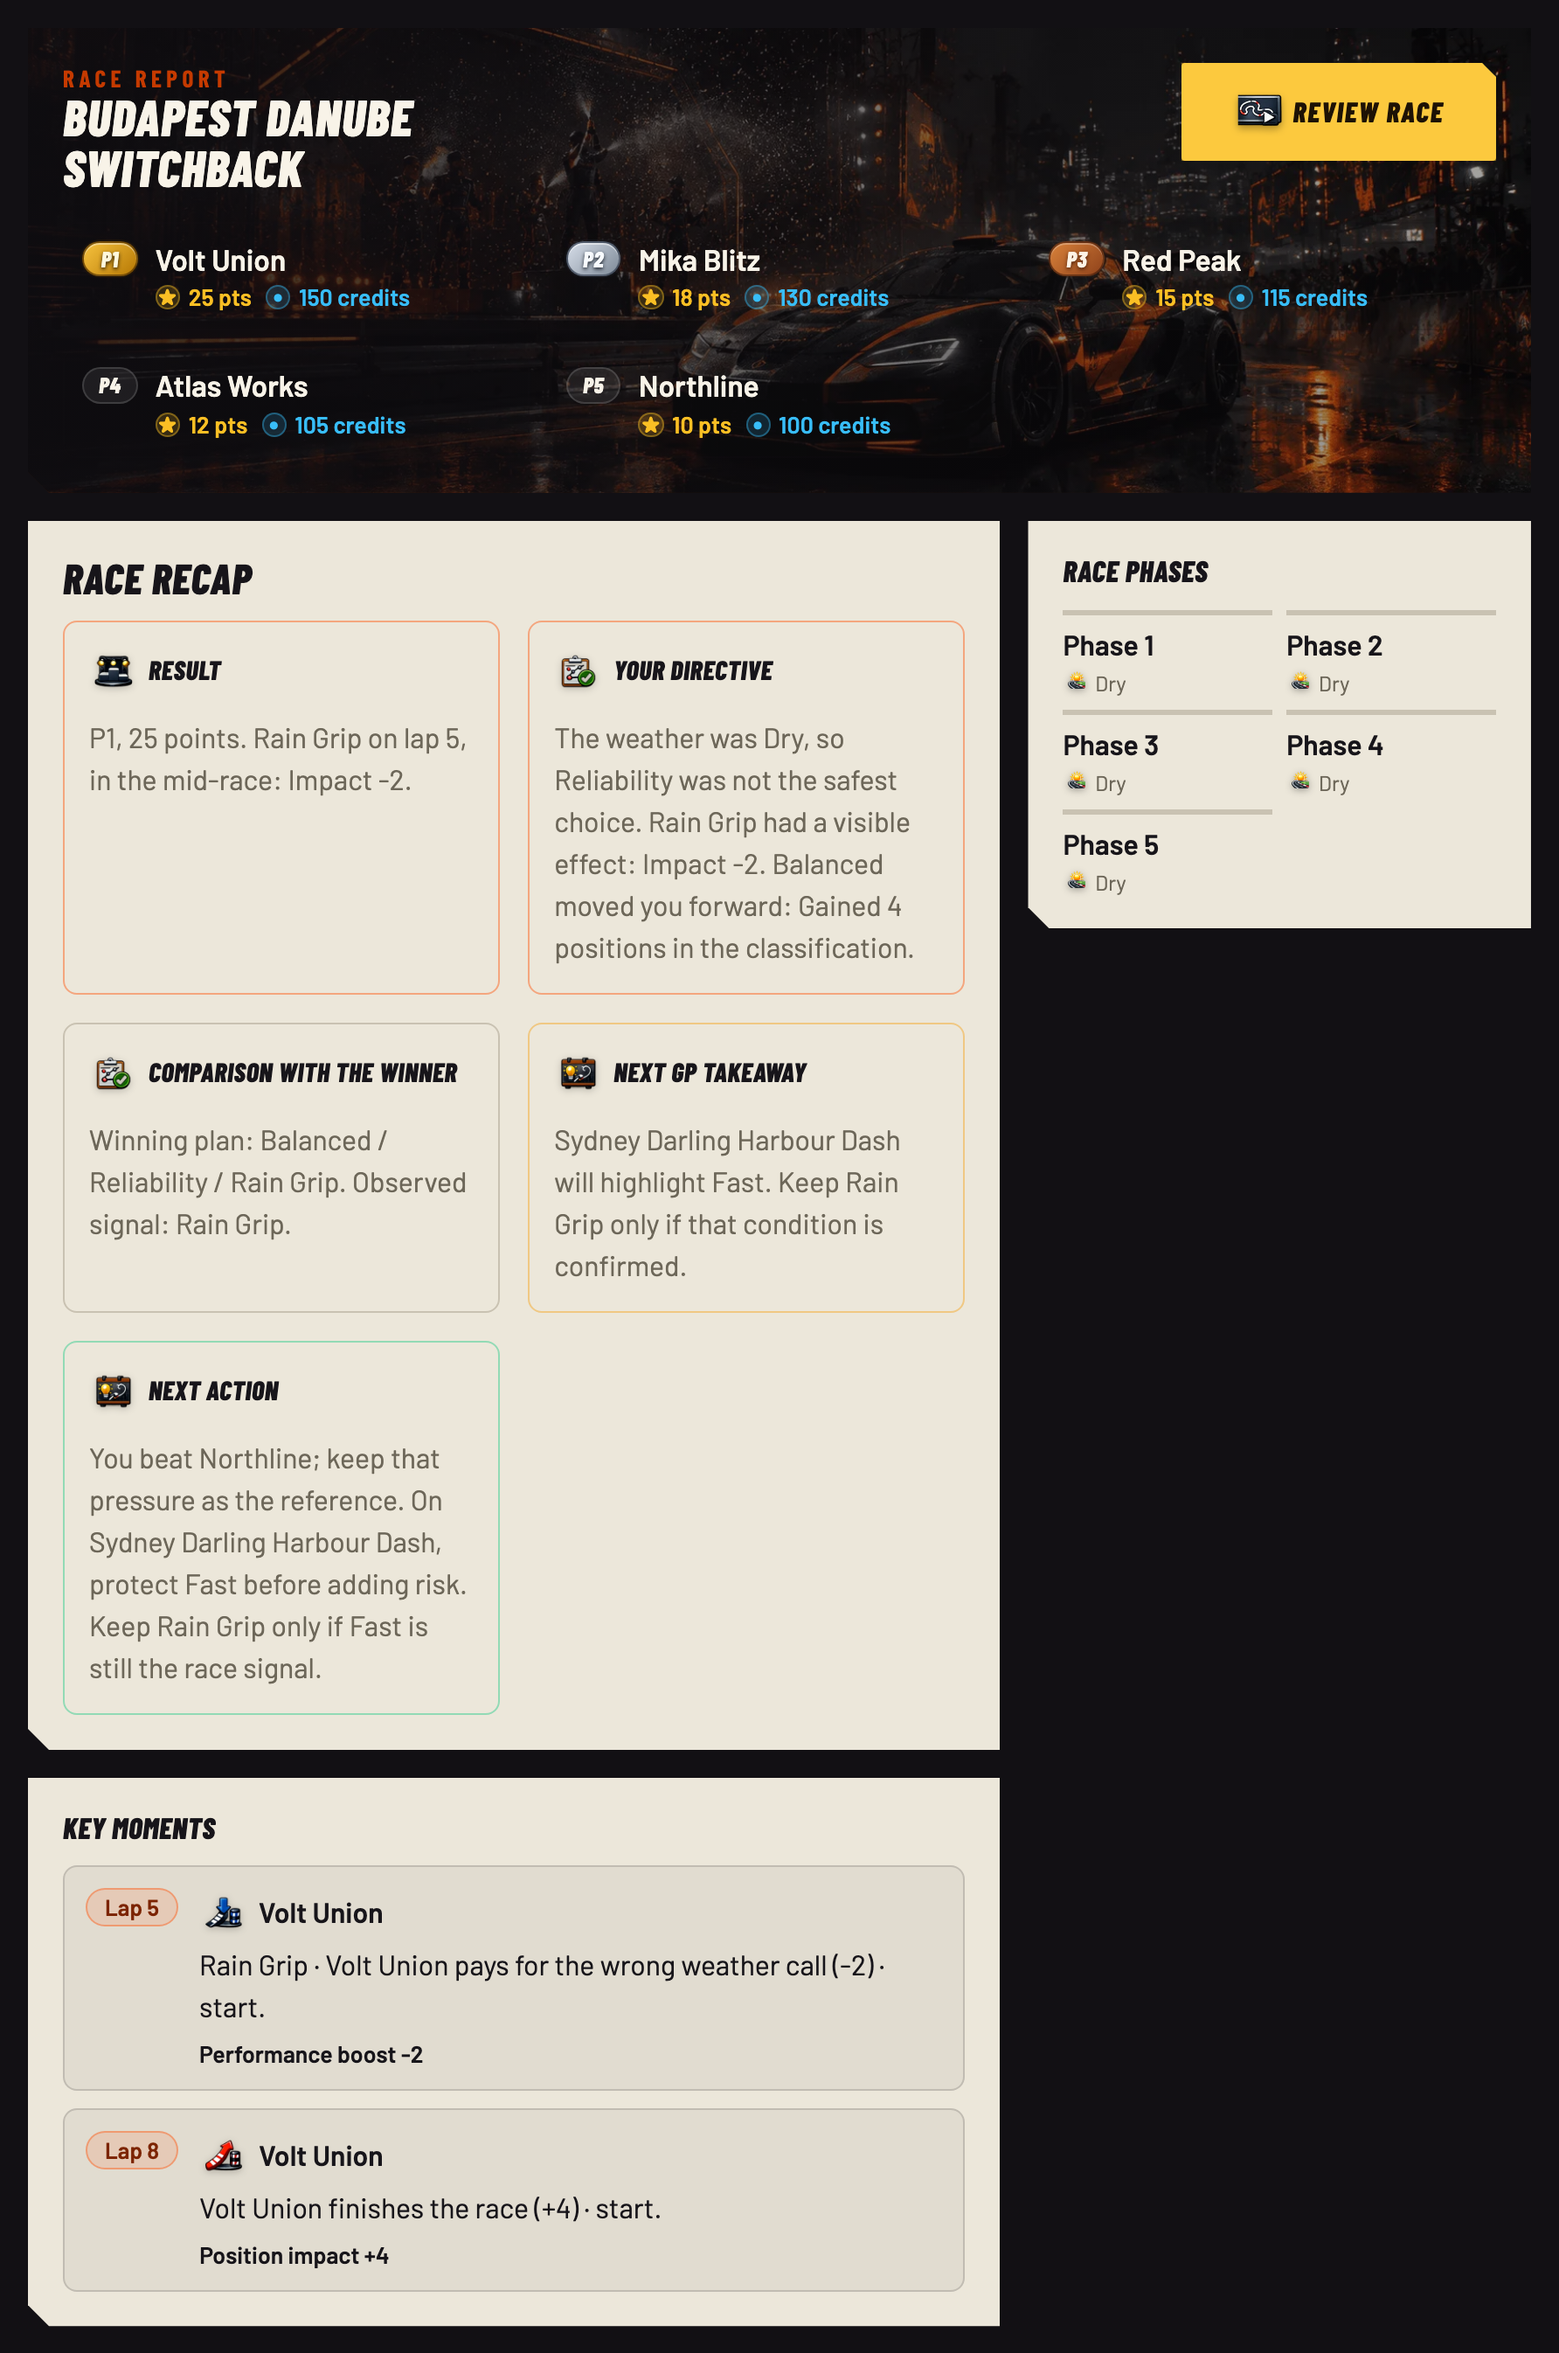
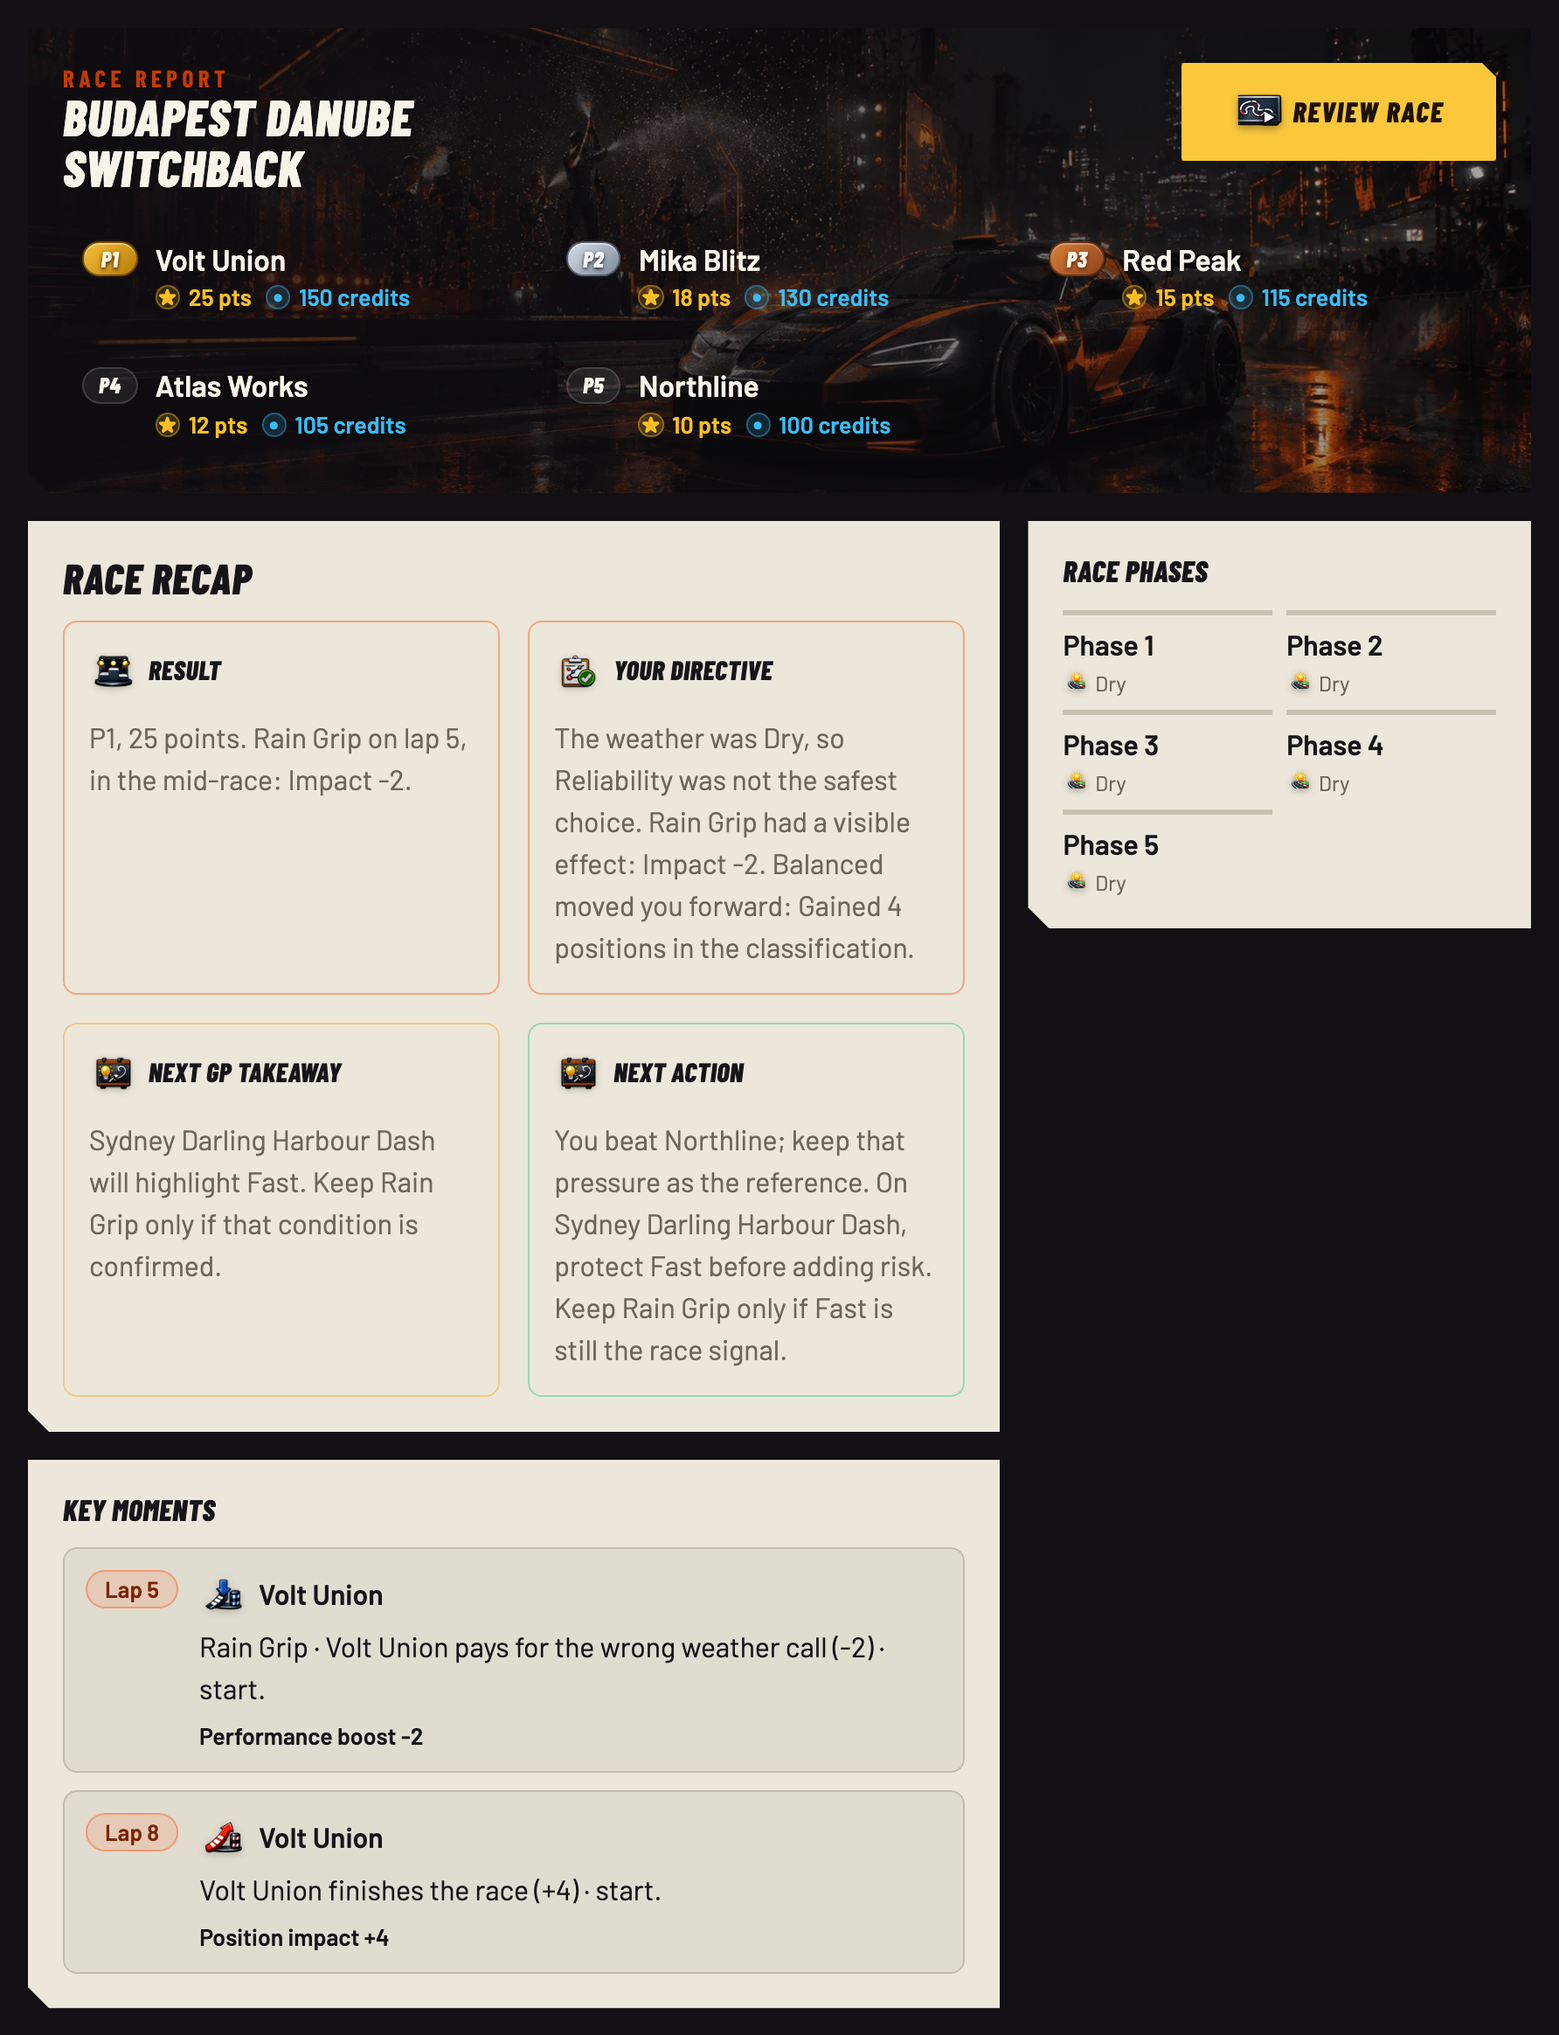
Drop the winner comparison from the race report

Changed region(s): [[0.0, 0.0, 0.9865, 0.9897], [0.185, 0.3711, 0.2158, 0.4021]]

diff --git a/apps/web/src/app/helpers.ts b/apps/web/src/app/helpers.ts
@@ -153,7 +153,6 @@ export function raceRecapCards(
   return {
     difference: recapDifference(result, playerTeamId, raceTitle, tt, circuitLaps),
     directive: recapDirective(result, playerTeamId, decision, state.currentGrandPrix.round, tt),
-    planRead: recapPlanRead(result, state, playerTeamId, decision, tt),
     lesson: recapNextLesson(result, state, playerTeamId, decision, tt)
   };
 }
@@ -385,39 +384,6 @@ function recapNextLessonLine(
       card: decision?.cardId ? tt(`card_${decision.cardId}` as TranslationKey) : ""
     }
   };
-}
-
-function recapPlanRead(
-  result: RaceResult,
-  state: LeagueState,
-  playerTeamId: string | undefined,
-  decision: LeagueState["decisions"][number] | undefined,
-  tt: Translator
-) {
-  if (!decision) return tt("result_no_directive");
-  const playerResult = result.classification.find((entry) => entry.teamId === playerTeamId);
-  const winner = result.classification[0];
-  const winnerDecision = state.decisions.find((candidate) => candidate.teamId === winner?.teamId);
-  const ownCardEvent = decision.cardId ? result.events.find((event) => event.teamId === playerTeamId && event.cardId === decision.cardId) : undefined;
-  const ownSetup = `${tt(`approach_${decision.approach}` as TranslationKey)} / ${tt(`preparation_${decision.preparation}` as TranslationKey)} / ${decision.cardId ? tt(`card_${decision.cardId}` as TranslationKey) : tt("card_none")}`;
-
-  if (playerResult?.position === 1) {
-    return tt(ownCardEvent ? "recap_plan_win_card" : "recap_plan_win_setup", {
-      setup: ownSetup,
-      signal: ownCardEvent ? tt(`card_${ownCardEvent.cardId}` as TranslationKey) : tt(`approach_${decision.approach}` as TranslationKey)
-    });
-  }
-
-  if (winner && winnerDecision) {
-    const winnerSetup = `${tt(`approach_${winnerDecision.approach}` as TranslationKey)} / ${tt(`preparation_${winnerDecision.preparation}` as TranslationKey)} / ${winnerDecision.cardId ? tt(`card_${winnerDecision.cardId}` as TranslationKey) : tt("card_none")}`;
-    return tt("recap_plan_chase_winner", {
-      winner: winner.teamName,
-      setup: ownSetup,
-      winnerSetup
-    });
-  }
-
-  return tt("recap_plan_no_reference", { setup: ownSetup });
 }
 
 export function teamNamesFromResult(result: RaceResult) {

diff --git a/apps/web/src/app/helpers.test.ts b/apps/web/src/app/helpers.test.ts
@@ -309,8 +309,6 @@ describe("raceRecapCards", () => {
     expect(recap.difference).toContain("Rain Grip");
     expect(recap.difference).toContain("Impact +2");
     expect(recap.directive).toContain("Rain Grip");
-    expect(recap.planRead).toContain("Winning plan:");
-    expect(recap.planRead).toContain("Rain Grip");
     expect(recap.lesson).toContain(expectedNextCircuitName());
   });
 
@@ -325,7 +323,6 @@ describe("raceRecapCards", () => {
 
     expect(recap.difference).toContain("Test GP");
     expect(recap.directive).toContain("kept you level");
-    expect(recap.planRead).toContain("Winning plan:");
     expect(recap.lesson).toContain(expectedNextCircuitName());
   });
 
@@ -357,20 +354,6 @@ describe("raceRecapCards", () => {
     expect(recap.lesson).not.toContain("Rain Grip");
   });
 
-  it("compares a losing directive with the winner's plan", () => {
-    const state = stateWithHistory([]);
-    state.decisions = [
-      { teamId: "team_1", approach: "balanced", preparation: "speed", cardId: null },
-      { teamId: "team_2", approach: "aggressive", preparation: "speed", cardId: "launch_boost" }
-    ];
-    const recap = raceRecapCards(result("team_2", "team_1"), state, "team_1", state.decisions[0], "Test GP", (key, params) =>
-      t(key, "en", params)
-    );
-
-    expect(recap.planRead).toContain("Your plan:");
-    expect(recap.planRead).toContain("Winner team_2:");
-    expect(recap.planRead).toContain("Launch Boost");
-  });
 });
 
 describe("buildRaceActionRecommendation", () => {

diff --git a/apps/web/src/features/PlanView.tsx b/apps/web/src/features/PlanView.tsx
@@ -145,7 +145,7 @@ export function PlanView({
               <section className="panel report-side-recap">
                 <h2>{tt("result_recap_title")}</h2>
                 <div className="recap-grid">
-                  {(["result_difference", "result_your_directive", "result_plan_read", "result_next_lesson"] as const).map((key) => (
+                  {(["result_difference", "result_your_directive", "result_next_lesson"] as const).map((key) => (
                     <section key={key}>
                       <h3>{tt(key)}</h3>
                       <p>{tt("plan_report_empty_placeholder")}</p>

diff --git a/apps/web/src/features/ReportView.tsx b/apps/web/src/features/ReportView.tsx
@@ -22,8 +22,7 @@ const RECAP_ICONS: Record<string, BoardIconName> = {
   action: "next-lesson",
   difference: "podium-result",
   directive: "plan-worked",
-  lesson: "next-lesson",
-  "plan-read": "plan-worked"
+  lesson: "next-lesson"
 };
 
 export function ReportView({
@@ -66,11 +65,6 @@ export function ReportView({
       className: "directive",
       title: tt("result_your_directive"),
       body: recapCards.directive
-    },
-    {
-      className: "plan-read",
-      title: tt("result_plan_read"),
-      body: recapCards.planRead
     },
     {
       className: "lesson",

diff --git a/apps/web/src/features/ReportView.test.tsx b/apps/web/src/features/ReportView.test.tsx
@@ -236,7 +236,6 @@ describe("ReportView", () => {
     const resultCard = container.querySelector(".recap-card.difference") as HTMLElement;
     expect(recap.textContent).toContain("P5, 10 points.");
     expect(resultCard.textContent?.match(/P5/g)).toHaveLength(1);
-    expect(recap.textContent).toContain("Analyzed plan:");
     expect(container.querySelector(".recap-card.action")?.textContent).toContain("change only one plan piece");
   });
 
